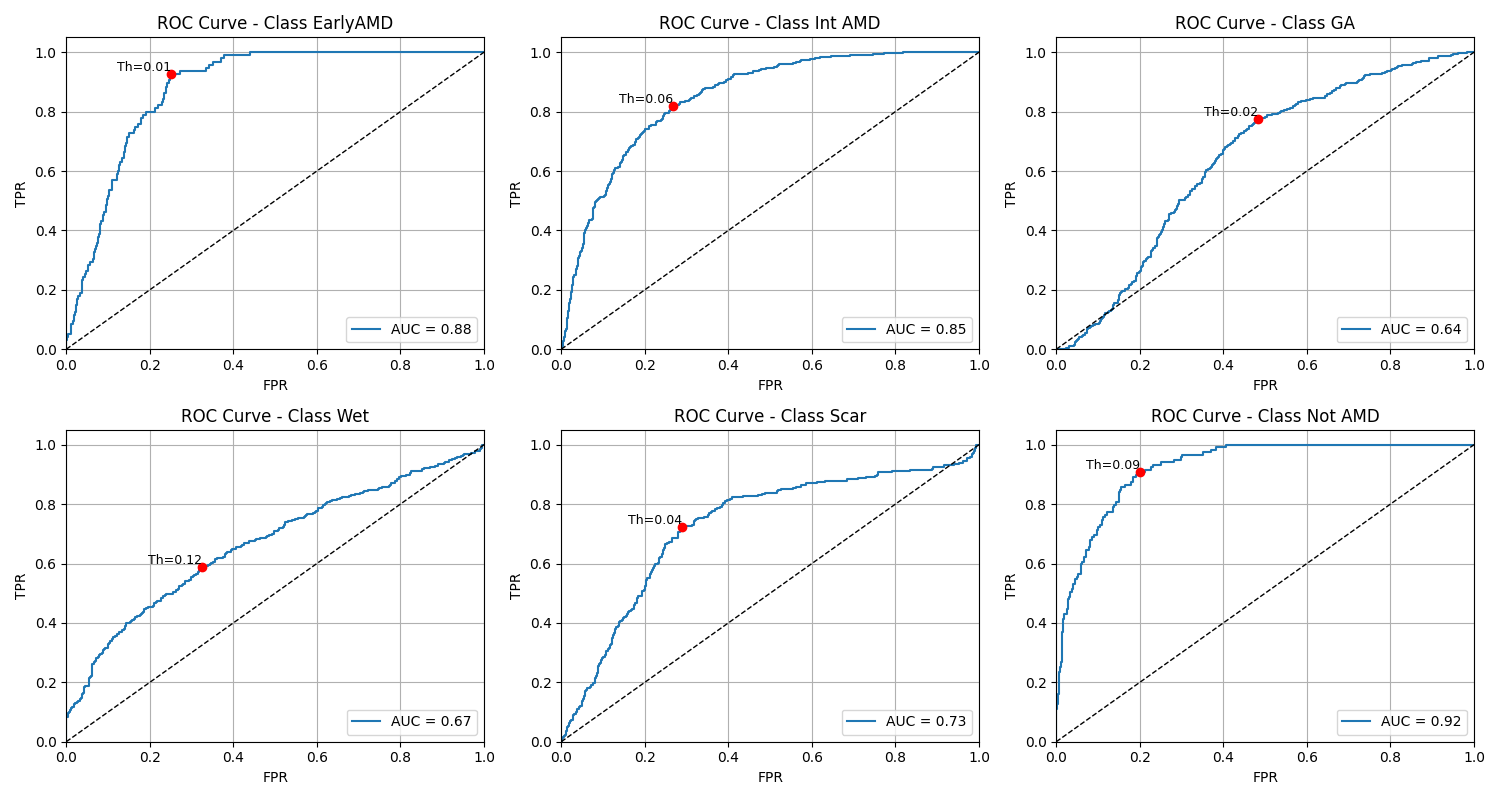
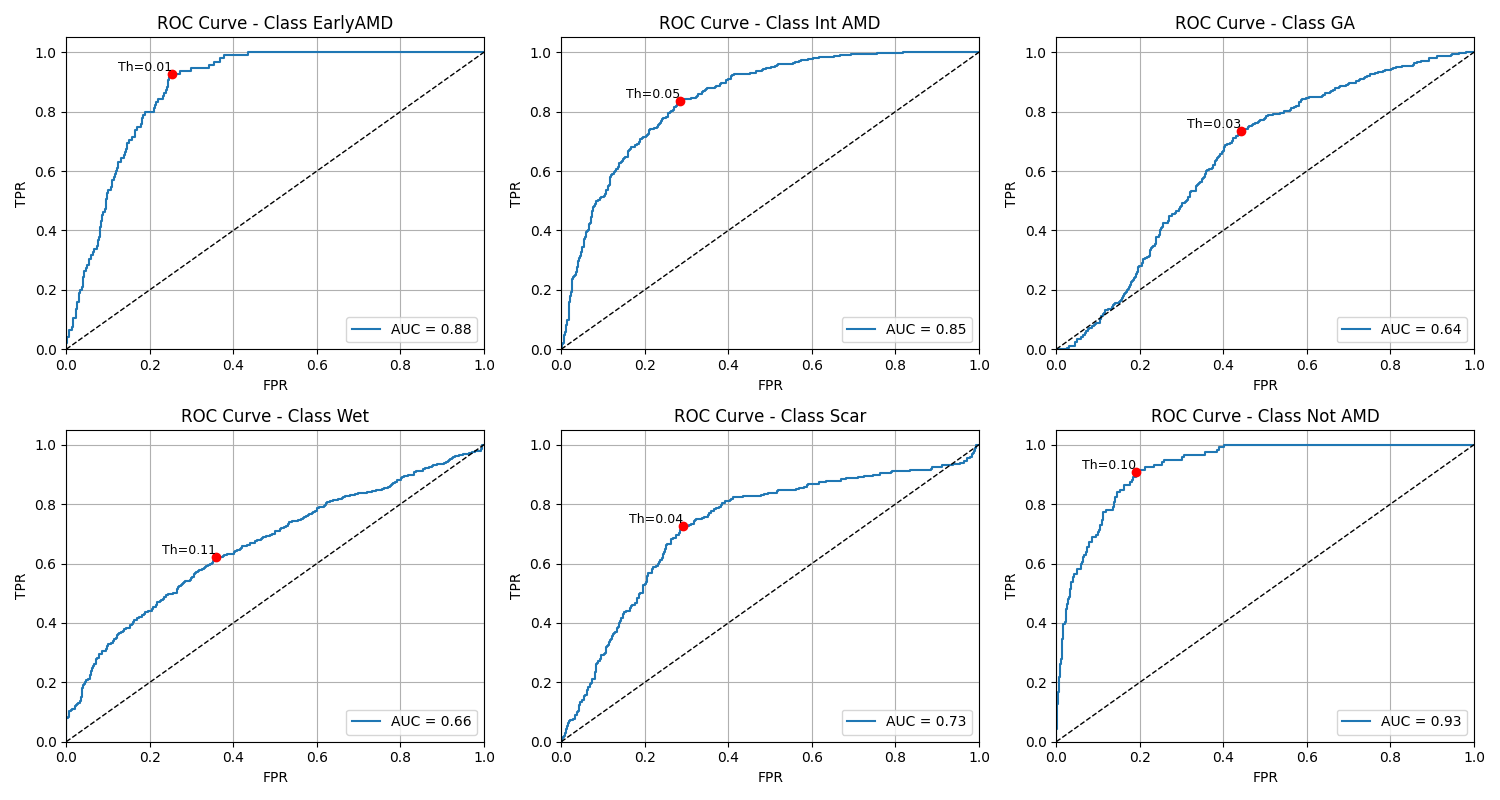
conf matrix

diff --git a/evaluating_classifier.py b/evaluating_classifier.py
@@ -88,11 +88,12 @@ def evaluate_dataset(json_path:str,device:torch.device,model_path:str,excel_path
         #save_roc= model_path.split(os.sep)[0]+"_"+model_path.split(os.sep)[-2]+"_"+model_path.split(os.sep)[-1]+f'roc_test_set_{(json_path.split(os.sep)[-1]).split(".")[0]}.png'
         save_roc=save_path.replace("confusion_matrix","roc")
         optimalThresholds=rocPlotter(LOGITS,labels,n_classes,save_roc,json_dir=os.path.dirname(model_path),classNames=classes)
-        thres=np.array([optimalThresholds[key] for key in classes])
-        preds =(LOGITS >= thres).astype(int).tolist()
+        thres=np.array([float(optimalThresholds[key]) for key in classes])
+        print(thres.shape,LOGITS.shape)
+        preds =(LOGITS >= thres).astype(int)
         conf_matrix_per_class = []
         for i in range(n_classes):
-            cm = confusion_matrix(label[:, i], preds[:, i], labels=[0, 1])
+            cm = confusion_matrix(labels[:, i], preds[:, i], labels=[0, 1])
             conf_matrix_per_class.append(cm)
             
 

diff --git a/utils/evaluation_metrics.py b/utils/evaluation_metrics.py
@@ -69,7 +69,7 @@ def rocPlotter(y_score,y_true,n_classes,save_dir,json_dir,save_metrics=True,clas
         optimal_thresholds[key]=str(optimal_thresholds[key]) if not np.isnan(optimal_thresholds[key]) else "1" 
 
     if save_metrics:
-        with open(json_dir+os.sep+"eval_matrix.json",'a') as f:
+        with open(json_dir+os.sep+"eval_matrix.json",'w') as f:
             print(roc_auc,optimal_thresholds)
             json.dump({
                 # 'fpr':fpr,
